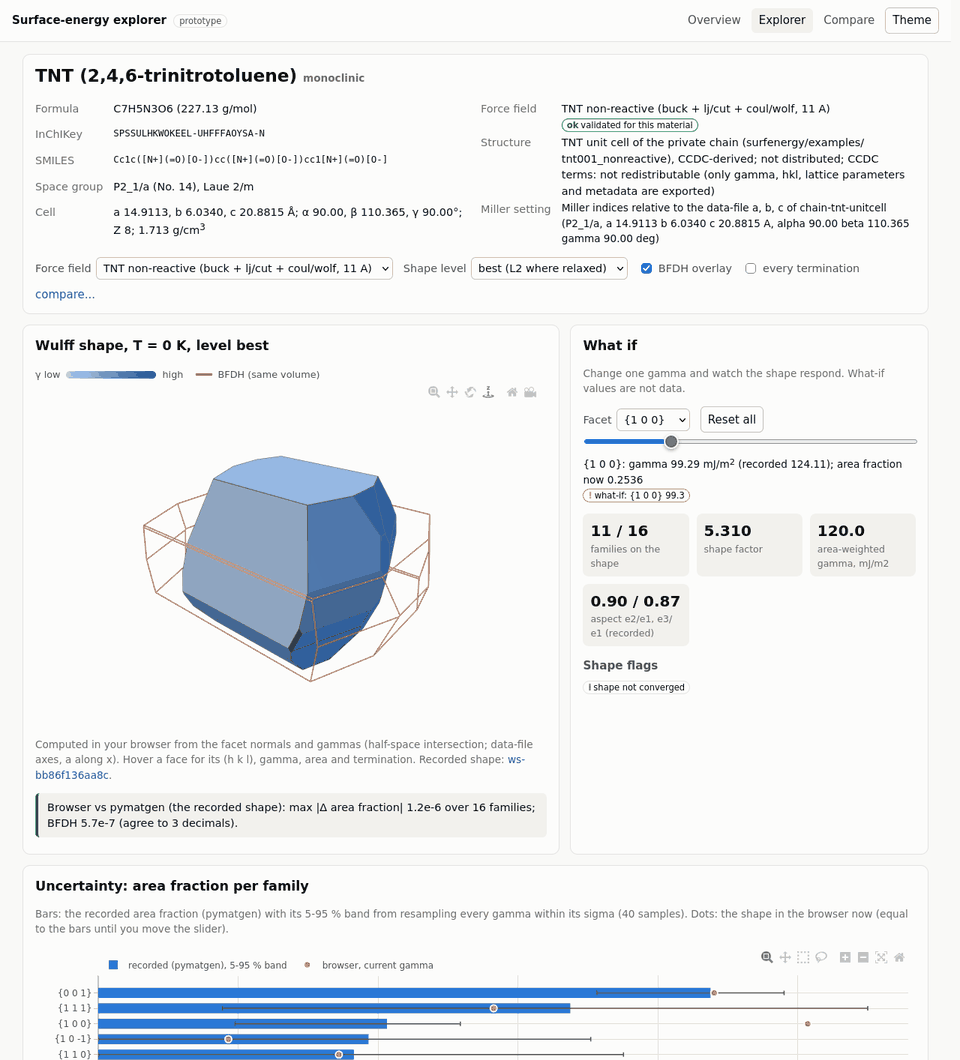
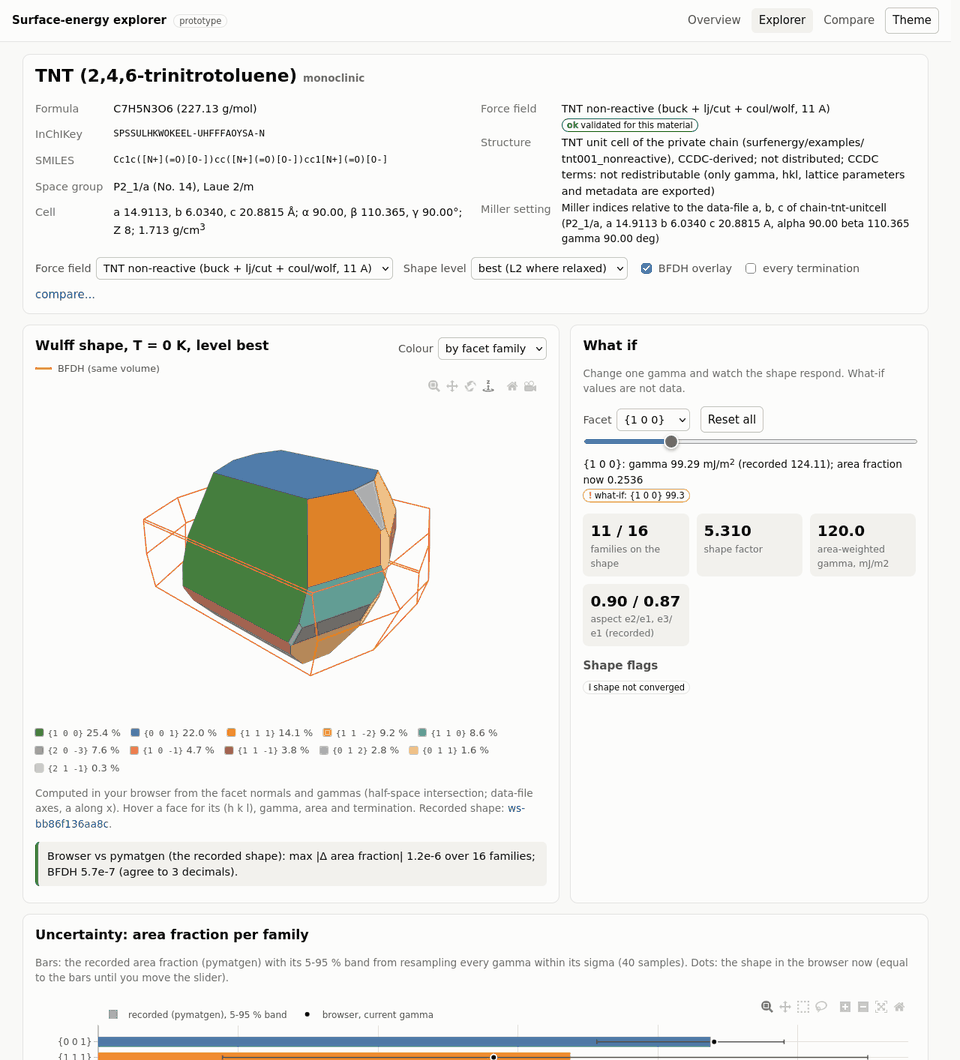
dashboard: colour Wulff faces by facet family (stable per material), legend with live area, swatches in tables and bars; 'colour by gamma' kept as an option

diff --git a/dashboard/js/app.js b/dashboard/js/app.js
@@ -7,7 +7,12 @@
   const params = new URLSearchParams(location.search);
   const BASE = (params.get('data') || '../dataset/').replace(/\/?$/, '/');
   const D = { records: [], byId: {}, shapes: [], shapeById: {}, index: null, materials: {} };
-  const STATE = { mat: {} };     // per material: {ff, level, bfdh, allTerms, whatif}
+  const STATE = { mat: {}, colorBy: 'family' };     // per material: {ff, level, bfdh, allTerms, whatif}
+  // Categorical facet colours (Tableau 10, then its lighter companions): the same family keeps the same colour on
+  // the 3D shape, the legend, the facet table, the uncertainty bars and the strip, whatever the level or what-if.
+  const PALETTE = ['#4e79a7', '#f28e2b', '#59a14f', '#e15759', '#76b7b2', '#edc948', '#b07aa1', '#ff9da7', '#9c755f',
+    '#bab0ac', '#a0cbe8', '#ffbe7d', '#8cd17d', '#ff9d9a', '#86bcb6', '#f1ce63', '#d4a6c8', '#fabfd2', '#d7b5a6', '#79706e'];
+  const FAMCOL = {};    // material id -> {family: colour}
   window.__dash = { ready: false, errors: [], checks: {}, renders: 0 };
   window.addEventListener('error', (e) => window.__dash.errors.push(String(e.message || e)));
 
@@ -21,6 +26,20 @@
   const levelName = { 1: 'L1 unrelaxed', 2: 'L2 relaxed T = 0', 3: 'L3 MD' };
   const hasError = (r) => r.result.gamma_flags.some((f) => f.severity === 'error');
   const famHkl = (f) => f.replace(/[{}]/g, '');
+
+  /** stable colours for a material's families: the families of its 'best' (else first) shape by recorded area
+   * (largest first, so the dominant faces get the most distinct colours), then any other family by name */
+  function famColors(M) {
+    if (FAMCOL[M.id]) return FAMCOL[M.id];
+    const order = [];
+    const sh = M.shapes.find((s) => s.level === 'best') || M.shapes[0];
+    if (sh) sh.facets.slice().sort((a, b) => b.area_fraction - a.area_fraction || a.family.localeCompare(b.family)).forEach((f) => order.push(f.family));
+    [...new Set(M.records.map((r) => r.facet.family))].sort().forEach((f) => { if (!order.includes(f)) order.push(f); });
+    const m = {};
+    order.forEach((f, i) => { m[f] = PALETTE[i % PALETTE.length]; });
+    return (FAMCOL[M.id] = m);
+  }
+  const swatch = (c) => '<span class="swatch" style="background:' + esc(c) + '"></span>';
 
   function badge(f) {
     return '<span class="badge ' + esc(f.severity) + '" title="' + esc(f.detail + ' (' + f.by + ')') + '">' + esc(f.code.replace(/_/g, ' ')) + '</span>';
@@ -161,7 +180,8 @@
         (opt.overrides && opt.overrides[f.family] != null ? ' (what-if)' : ' (' + (sf.level === 2 ? 'L2' : 'L1') + ')') +
         '<br>family area fraction ' + fmt(res.areaFraction[f.family], 4) + '<br>termination ' + esc(sf.termination_label || '-');
       traces.push({ type: 'mesh3d', x, y, z, i: I, j: J, k: K, flatshading: true,
-        color: mix(lo, hi, gmax > gmin ? (f.gamma - gmin) / (gmax - gmin) : 0.5), opacity: 1,
+        color: opt.colors && STATE.colorBy === 'family' ? (opt.colors[f.family] || PALETTE[9])
+          : mix(lo, hi, gmax > gmin ? (f.gamma - gmin) / (gmax - gmin) : 0.5), opacity: 1,
         lighting: { ambient: 0.78, diffuse: 0.45, specular: 0.05, roughness: 0.9, fresnel: 0.05 },
         lightposition: { x: 1e5, y: 2e5, z: 3e5 }, hovertemplate: tip + '<extra></extra>', name: f.family });
       for (const p of P.concat([P[0]])) { ex.push(p[0]); ey.push(p[1]); ez.push(p[2]); }
@@ -238,8 +258,12 @@
 
     if (shape) {
       h += '<div class="grid2"><div class="card"><div class="row" style="justify-content:space-between"><h2>Wulff shape, T = ' + fmt(shape.temperature_K, 0) + ' K, level ' + esc(shape.level) + '</h2>' +
-        '<span class="legend-ramp">&gamma; low <span class="ramp"></span> high' + (st.bfdh ? ' &nbsp;<span class="legend-line"></span> BFDH (same volume)' : '') + '</span></div>' +
+        '<label class="small">Colour <select id="sel-color"><option value="family"' + (STATE.colorBy === 'family' ? ' selected' : '') + '>by facet family</option>' +
+        '<option value="gamma"' + (STATE.colorBy === 'gamma' ? ' selected' : '') + '>by &gamma;</option></select></label></div>' +
+        (STATE.colorBy === 'gamma' ? '<div class="legend-ramp">&gamma; low <span class="ramp"></span> high' + (st.bfdh ? ' &nbsp;<span class="legend-line"></span> BFDH (same volume)' : '') + '</div>'
+          : (st.bfdh ? '<div class="legend-ramp"><span class="legend-line"></span> BFDH (same volume)</div>' : '')) +
         '<div id="plot3d" class="plot3d" role="img" aria-label="3D Wulff shape of ' + esc(M.name) + '"></div>' +
+        '<div id="famlegend" class="famlegend" aria-label="facet families on the shape"></div>' +
         '<p class="small muted">Computed in your browser from the facet normals and gammas (half-space intersection; data-file axes, a along x). Hover a face for its (h k l), gamma, area and termination. ' +
         'Recorded shape: ' + shapeLink(shape, esc(shape.shape_id)) + '.</p><div id="selfcheck"></div></div>' +
         '<div class="card whatif"><h2>What if</h2><p class="small muted">Change one gamma and watch the shape respond. What-if values are not data.</p>' +
@@ -258,20 +282,27 @@
     }
     h += '<div class="card"><h2>Facet table</h2><p class="small muted">Every gamma links to its record (inputs, protocol, flags, run). ' +
       (st.allTerms ? 'All terminations.' : 'The lowest termination of each run (and failed runs); tick "every termination" for all.') + (shape ? ' Highlighted rows are the inputs of the shape shown.' : '') + '</p>' +
-      '<div class="tablewrap">' + facetTable(recs, shape, st.allTerms) + '</div></div>';
+      '<div class="tablewrap">' + facetTable(recs, shape, st.allTerms, famColors(M)) + '</div></div>';
     app.innerHTML = h;
 
     $('#sel-ff').onchange = (e) => { st.ff = e.target.value; st.whatif = {}; location.hash = '#/m/' + encodeURIComponent(M.id) + '?ff=' + encodeURIComponent(st.ff); };
     $('#chk-all').onchange = (e) => { st.allTerms = e.target.checked; route(); };
-    if (!shape) { drawStrip($('#strip'), recs); return; }
+    const cols = famColors(M);
+    if (!shape) { drawStrip($('#strip'), recs, cols); return; }
     $('#sel-level').onchange = (e) => { st.level = e.target.value; st.whatif = {}; route(); };
     $('#chk-bfdh').onchange = (e) => { st.bfdh = e.target.checked; route(); };
     if (!st.wfam || !shape.facets.some((f) => f.family === st.wfam)) st.wfam = shape.facets[0].family;
     const fam = $('#wf-fam'), sl = $('#wf-slider');
+    $('#sel-color').onchange = (e) => { STATE.colorBy = e.target.value; route(); };
     const base = (f) => shape.facets.find((x) => x.family === f).gamma;
     const syncSlider = () => { sl.value = st.whatif[st.wfam] != null ? st.whatif[st.wfam] / base(st.wfam) : 1; };
     const redraw = () => {
-      const res = drawShape($('#plot3d'), shape, { overrides: st.whatif, bfdh: st.bfdh });
+      const res = drawShape($('#plot3d'), shape, { overrides: st.whatif, bfdh: st.bfdh, colors: cols });
+      if (res.ok) {
+        const on = shape.facets.filter((f) => res.areaFraction[f.family] > 1e-4).sort((a, b) => res.areaFraction[b.family] - res.areaFraction[a.family]);
+        $('#famlegend').innerHTML = on.map((f) => '<span class="famitem">' + (STATE.colorBy === 'family' ? swatch(cols[f.family]) : '') +
+          '<span class="mono">' + esc(f.family) + '</span> ' + (res.areaFraction[f.family] < 0.0005 ? '&lt;0.1' : fmt(100 * res.areaFraction[f.family], 1)) + ' %</span>').join('');
+      }
       window.__dash.lastBuild = { shape_id: shape.shape_id, overrides: Object.assign({}, st.whatif), areaFraction: res.areaFraction, ok: res.ok };
       const g = st.whatif[st.wfam];
       $('#wf-val').innerHTML = esc(st.wfam) + ': gamma <span class="val">' + fmt(g != null ? g : base(st.wfam), 2) + '</span> mJ/m<sup>2</sup>' +
@@ -284,7 +315,7 @@
           tile(fmt(mt.weighted_surface_energy, 1), 'area-weighted gamma, mJ/m2') +
           tile(fmt(shape.shape_metrics.aspect_ratios.e2_over_e1, 2) + ' / ' + fmt(shape.shape_metrics.aspect_ratios.e3_over_e1, 2), 'aspect e2/e1, e3/e1 (recorded)');
       }
-      drawUncertainty($('#unc'), shape, res);
+      drawUncertainty($('#unc'), shape, res, cols);
     };
     fam.onchange = (e) => { st.wfam = e.target.value; syncSlider(); redraw(); };
     sl.oninput = () => {
@@ -300,7 +331,7 @@
       c.max_abs_diff.toExponential(1) + ' over ' + c.n_families + ' families; BFDH ' + c.max_abs_diff_bfdh.toExponential(1) + (c.ok ? ' (agree to 3 decimals)' : ' (DISAGREE)') + '.</div>';
   }
 
-  function facetTable(recs, shape, all) {
+  function facetTable(recs, shape, all, cols) {
     const used = new Set(shape ? shape.input_record_ids : []);
     const area = {};
     if (shape) for (const f of shape.facets) area[f.family] = f;
@@ -314,7 +345,7 @@
       const isUsed = used.has(r.record_id);
       const g = R.status === 'ok' ? recLink(r, fmt(R.gamma, 2) + (R.gamma_error ? ' &plusmn; ' + fmt(R.gamma_error, 1) : '')) : recLink(r, 'failed');
       const sf = area[r.facet.family];
-      h += '<tr class="' + (isUsed ? 'used' : '') + (R.status === 'failed' ? ' failed' : '') + '"><td class="mono">' + esc(r.facet.family) + '</td>' +
+      h += '<tr class="' + (isUsed ? 'used' : '') + (R.status === 'failed' ? ' failed' : '') + '"><td class="mono">' + (cols && cols[r.facet.family] ? swatch(cols[r.facet.family]) : '') + esc(r.facet.family) + '</td>' +
         '<td class="mono">(' + esc(r.facet.hkl.join(' ')) + ')</td><td><span class="badge lvl">' + esc(levelName[P.level]) + '</span></td>' +
         '<td class="num">' + fmt(P.temperature_K, 0) + '</td><td class="num">' + g + (R.gamma_unrelaxed != null ? '<div class="small muted">unrelaxed ' + fmt(R.gamma_unrelaxed, 2) + '</div>' : '') +
         (R.gamma_raw != null ? '<div class="small muted">raw ' + fmt(R.gamma_raw, 2) + '</div>' : '') + '</td>' +
@@ -326,16 +357,16 @@
     return h + '</tbody></table>';
   }
 
-  function drawUncertainty(el, shape, res) {
+  function drawUncertainty(el, shape, res, cols) {
     const fs = shape.facets.slice().sort((a, b) => a.area_fraction - b.area_fraction);
     const y = fs.map((f) => f.family);
     const bars = { type: 'bar', orientation: 'h', y, x: fs.map((f) => f.area_fraction), name: 'recorded (pymatgen), 5-95 % band',
-      marker: { color: css('--series-1') },
+      marker: { color: cols && STATE.colorBy === 'family' ? fs.map((f) => cols[f.family] || PALETTE[9]) : css('--series-1') },
       error_x: { type: 'data', symmetric: false, array: fs.map((f) => Math.max(0, f.area_p95 - f.area_fraction)), arrayminus: fs.map((f) => Math.max(0, f.area_fraction - f.area_p05)), color: css('--ink-2'), thickness: 1.5, width: 3 },
       customdata: fs.map((f) => [f.area_mean, f.area_std, f.area_p05, f.area_p95, f.gamma, f.sigma, f.level]),
       hovertemplate: '%{y}: %{x:.4f}<br>mean %{customdata[0]:.4f} &plusmn; %{customdata[1]:.4f}<br>5-95 %: %{customdata[2]:.4f} - %{customdata[3]:.4f}<br>gamma %{customdata[4]:.2f} &plusmn; %{customdata[5]:.2f} (L%{customdata[6]})<extra></extra>' };
     const dots = { type: 'scatter', mode: 'markers', y, x: fs.map((f) => res.areaFraction ? res.areaFraction[f.family] : null), name: 'browser, current gamma',
-      marker: { color: css('--series-2'), size: 9, line: { color: css('--surface'), width: 2 } }, hovertemplate: '%{y}: %{x:.4f} (browser)<extra></extra>' };
+      marker: { color: css('--ink'), size: 8, line: { color: css('--surface'), width: 2 } }, hovertemplate: '%{y}: %{x:.4f} (browser)<extra></extra>' };
     const layout = Object.assign(plotTheme(), { margin: { l: 80, r: 10, t: 10, b: 40 }, barmode: 'overlay', bargap: 0.35,
       xaxis: Object.assign(axis('area fraction'), { rangemode: 'tozero' }), yaxis: Object.assign(axis(''), { type: 'category' }),
       legend: { orientation: 'h', y: 1.08, x: 0 }, height: Math.max(300, 22 * fs.length + 90) });
@@ -343,12 +374,13 @@
     Plotly.react(el, [bars, dots], layout, PCFG);
   }
 
-  function drawStrip(el, recs) {
+  function drawStrip(el, recs, cols) {
     const ok = recs.filter((r) => r.result.status === 'ok');
     const fams = [...new Set(ok.map((r) => r.facet.family))];
     const tr = {
       type: 'scatter', mode: 'markers', x: ok.map((r) => r.result.gamma), y: ok.map((r) => r.facet.family),
-      marker: { size: 11, color: ok.map((r) => (r.termination.is_lowest ? css('--series-1') : css('--surface'))), line: { color: css('--series-1'), width: 2 } },
+      marker: { size: 11, color: ok.map((r) => { const c = (cols && cols[r.facet.family]) || css('--series-1'); return r.termination.is_lowest ? c : css('--surface'); }),
+        line: { color: ok.map((r) => (cols && cols[r.facet.family]) || css('--series-1')), width: 2 } },
       customdata: ok.map((r) => [r.record_id, r.termination.label, 'L' + r.protocol.level]),
       hovertemplate: '%{y} %{customdata[1]} (%{customdata[2]}): %{x:.2f} mJ/m<sup>2</sup><br>record %{customdata[0]}<extra></extra>' };
     const layout = Object.assign(plotTheme(), { margin: { l: 80, r: 10, t: 10, b: 44 }, showlegend: false,
@@ -461,7 +493,7 @@
       h += '<div id="c3d-' + k + '" class="plot3d" style="height:340px"></div><p class="small muted">T = ' + fmt(shape.temperature_K, 0) + ' K, level ' + esc(shape.level) + ', ' +
         shape.shape_metrics.n_on_shape + ' families on the shape; shape factor ' + fmt(shape.shape_metrics.shape_factor, 3) + '. &gamma; is the value the shape was built with.</p>' +
         '<div class="tablewrap"><table><thead><tr><th>Family</th><th>Level</th><th class="num">&gamma; (mJ/m<sup>2</sup>)</th><th class="num">Area</th></tr></thead><tbody>' +
-        shape.facets.map((f) => { const r = D.byId[f.input_record_ids[0]]; return '<tr><td class="mono">' + esc(f.family) + '</td><td>L' + f.level + (f.level === 1 && shape.level === 'best' ? ' (scaled)' : '') + '</td><td class="num">' + recLink(r, fmt(f.gamma, 2)) + '</td>' +
+        shape.facets.map((f) => { const r = D.byId[f.input_record_ids[0]]; return '<tr><td class="mono">' + swatch(famColors(M)[f.family] || PALETTE[9]) + esc(f.family) + '</td><td>L' + f.level + (f.level === 1 && shape.level === 'best' ? ' (scaled)' : '') + '</td><td class="num">' + recLink(r, fmt(f.gamma, 2)) + '</td>' +
           '<td class="num">' + shapeLink(shape, fmt(f.area_fraction, 4), f.family) + '</td></tr>'; }).join('') + '</tbody></table></div></div>';
     } else {
       // no shape: the highest level at T = 0 of each family (its lowest termination)
@@ -476,7 +508,7 @@
         fams.map((f) => '<tr><td class="mono">' + esc(f) + '</td><td>L' + best[f].protocol.level + '</td><td class="num">' + recLink(best[f], fmt(best[f].result.gamma, 2)) + '</td></tr>').join('') + '</tbody></table></div></div>';
     }
     el.innerHTML = h;
-    if (shape) drawShape($('#c3d-' + k), shape, {});
+    if (shape) drawShape($('#c3d-' + k), shape, { colors: famColors(M) });
   }
 
   // ------------------------------------------------------------------ record and shape pages

diff --git a/dashboard/css/style.css b/dashboard/css/style.css
@@ -187,3 +187,9 @@ pre.json { background: var(--surface-2); border-radius: 8px; padding: 10px; over
 .row label select, .row label input { min-width: 0; max-width: 100%; flex: 1 1 auto; }
 select { max-width: 100%; text-overflow: ellipsis; }
 input[type="search"] { width: 22em; max-width: 100%; }
+
+/* facet-family colours (app.js PALETTE): swatches in the legend and the tables */
+.swatch { display: inline-block; width: 0.8em; height: 0.8em; border-radius: 2px; margin-right: 6px; vertical-align: -0.05em;
+  box-shadow: 0 0 0 1px var(--axis); }
+.famlegend { display: flex; flex-wrap: wrap; gap: 4px 14px; margin: 6px 0 2px; font-size: 0.82rem; color: var(--ink-2); }
+.famitem { white-space: nowrap; }
